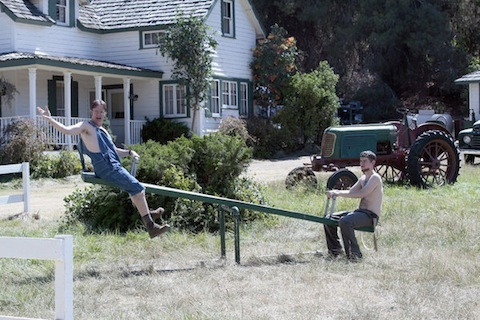
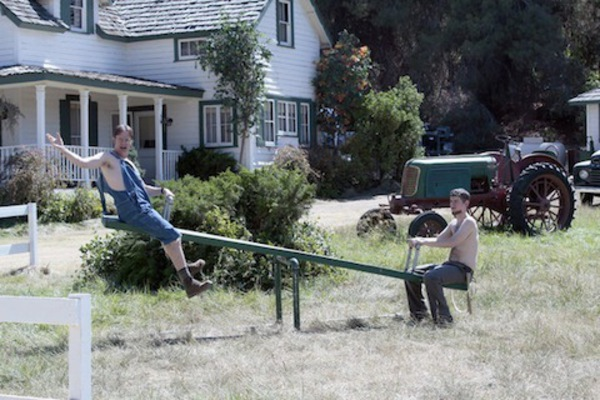
Began styling all pages with custom and semantic

diff --git a/app/assets/stylesheets/application.css b/app/assets/stylesheets/application.css
@@ -14,6 +14,28 @@
  *= require_self
  */
 
-.navy {
-  color: #000080;
+
+ h1 {
+   text-align: justify;
+ }
+
+h2 {
+  text-align: center;
+}
+
+img {
+  display: block;
+   margin-left: auto;
+   margin-right: auto;
+   padding:2px;
+   border:1px solid #D3D3D3;
+   background-color:#D3D3D3;
+}
+
+p {
+ text-align: center;
+}
+
+span {
+ text-align: center;
 }

diff --git a/app/uploaders/image_uploader.rb b/app/uploaders/image_uploader.rb
@@ -3,6 +3,8 @@ class ImageUploader < CarrierWave::Uploader::Base
   # include CarrierWave::RMagick
   include CarrierWave::MiniMagick
 
+  process resize_to_fit: [600, 600]
+
   # Choose what kind of storage to use for this uploader:
   storage :file
   # storage :fog
@@ -30,7 +32,7 @@ class ImageUploader < CarrierWave::Uploader::Base
 
   # Create different versions of your uploaded files:
   version :thumb do
-    process resize_to_fit: [100, 100]
+    process resize_to_fit: [300, 300]
   end
 
   # Add a white list of extensions which are allowed to be uploaded.
